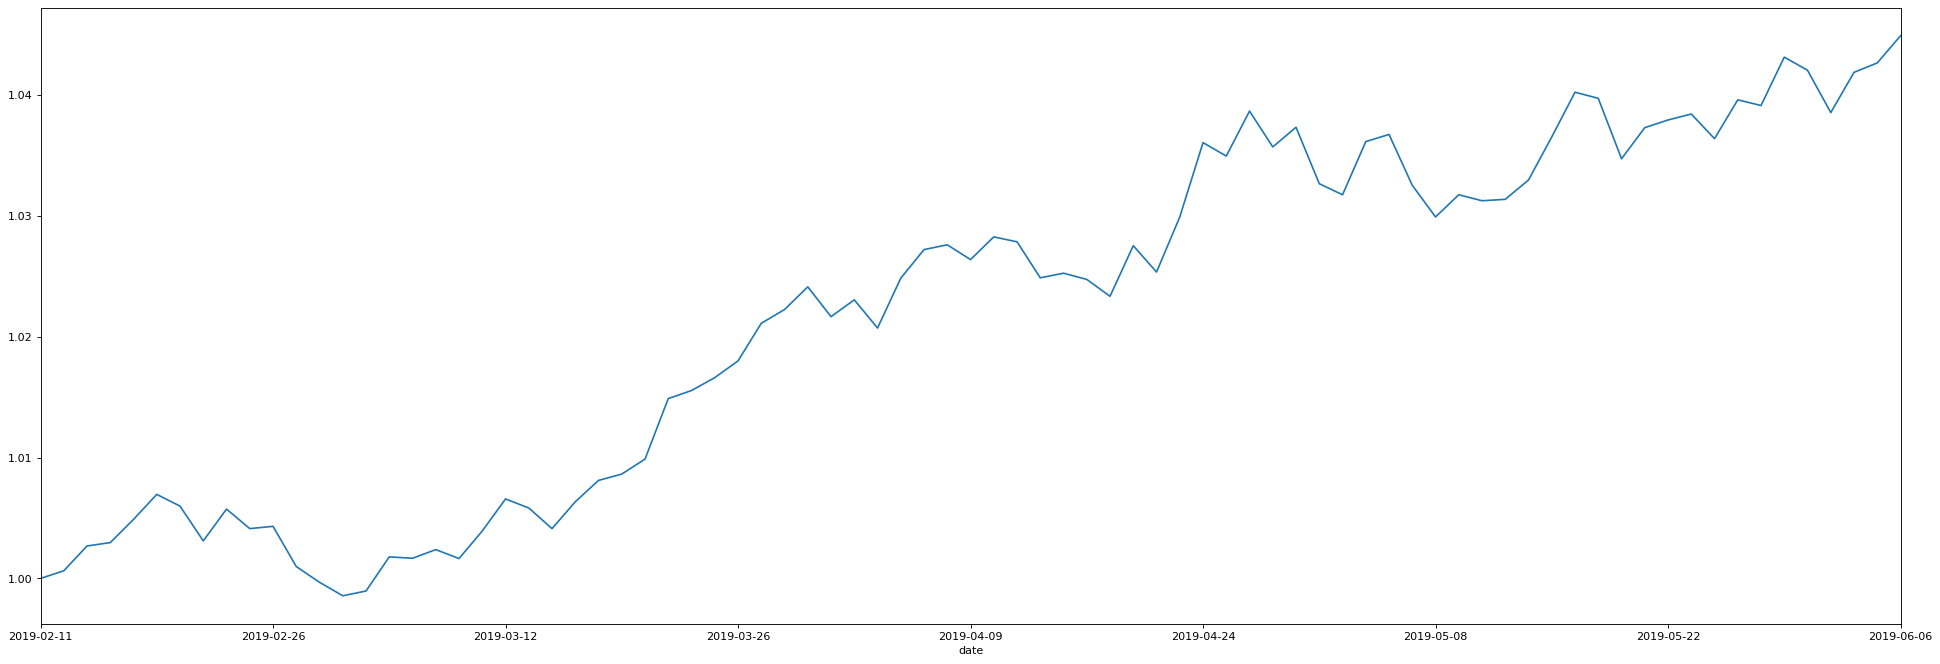
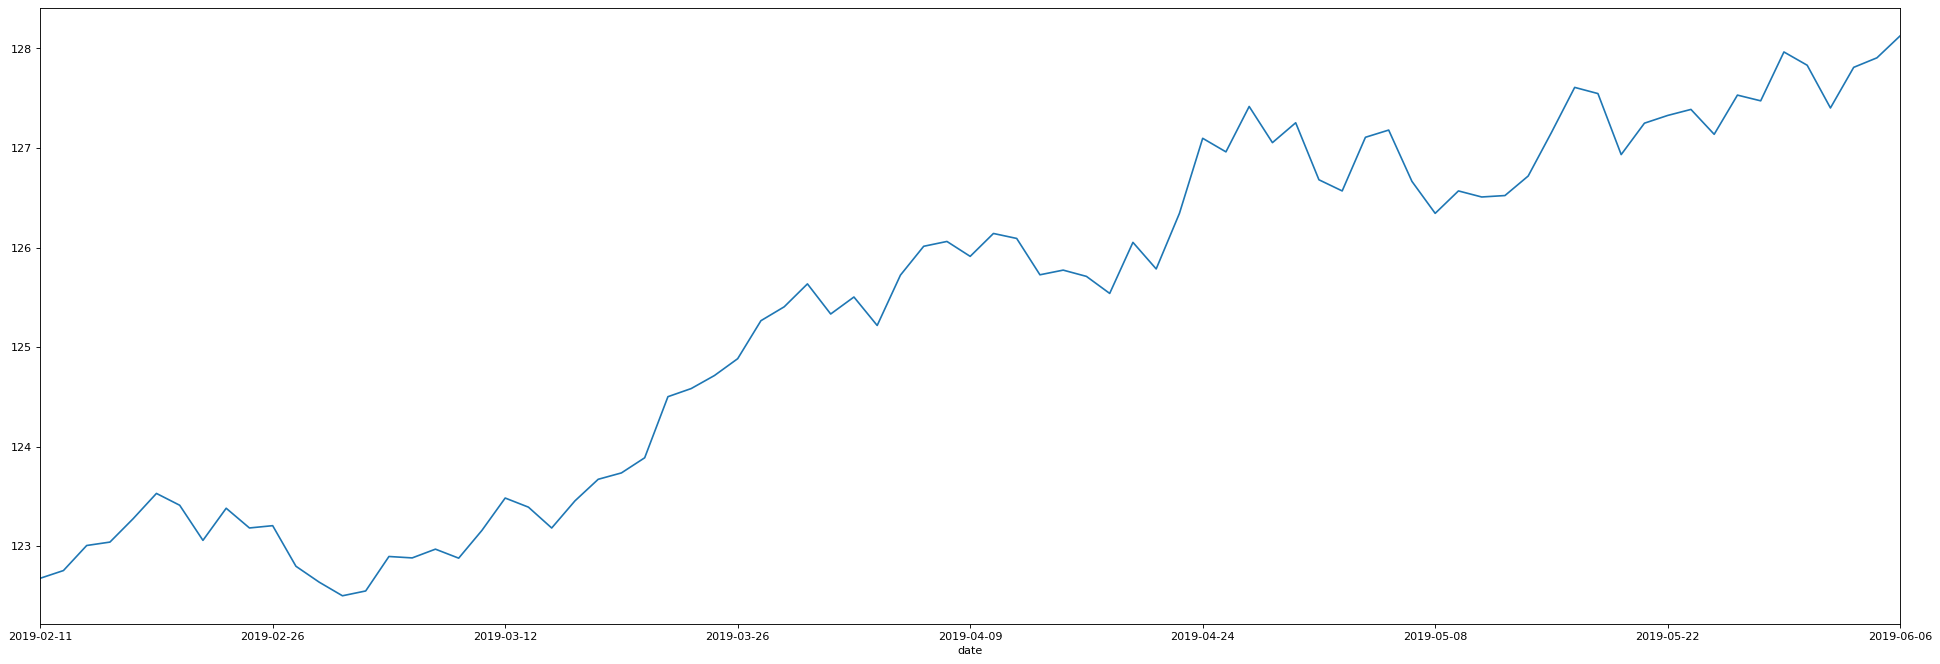
Support price scaling and disable api rate limit

diff --git a/main.py b/main.py
@@ -21,7 +21,7 @@ def read_portfolio(csv_filepath):
     return portfolio
 
 
-def get_price_data(api_key, portfolio):
+def get_price_data(api_key, disable_api_rate_limit, portfolio):
     ts = TimeSeries(key=api_key, output_format='pandas')
     data = []
     meta_data = []
@@ -33,7 +33,7 @@ def get_price_data(api_key, portfolio):
         data.append(tmp_data)
         meta_data.append(tmp_meta_data)
         # API rate limit
-        if i % 5 == 4:
+        if not disable_api_rate_limit and i % 5 == 4:
             time.sleep(60)
         i = i + 1
     return data, meta_data
@@ -61,11 +61,12 @@ def compute_price_with_currency_impact(price_data, cc_data):
 
 
 def compute_portfolio_price_with_currency_impact(api_key,
+                                                 disable_api_rate_limit,
                                                  csv_filepath,
                                                  from_currency,
                                                  to_currency):
     portfolio = read_portfolio(csv_filepath)
-    price_data, _ = get_price_data(api_key, portfolio)
+    price_data, _ = get_price_data(api_key, disable_api_rate_limit, portfolio)
     portfolio_price = compute_portfolio_price(price_data, portfolio)
     cc_data = get_currency_exchange_data(api_key, from_currency, to_currency)
     final_price = compute_price_with_currency_impact(portfolio_price, cc_data)
@@ -76,9 +77,12 @@ def get_close_price(price_data):
     return price_data['4. close']
 
 
-def plot_data(data, fig_filepath):
+def plot_data(data, do_data_scaling, fig_filepath):
     plt.figure(figsize=(30,10), dpi=80)
-    (data / data[0]).plot()
+    if do_data_scaling:
+        (data / data[0]).plot()
+    else:
+        data.plot()
     plt.savefig(fig_filepath, bbox_inches='tight')
 
 
@@ -89,17 +93,19 @@ def main():
     parser.add_argument("--from-currency", type=str, default="USD")
     parser.add_argument("--to-currency", type=str, default="SGD")
     parser.add_argument("--fig-filepath", type=str, default="fig.png")
+    parser.add_argument("--price-scaling", default=False, action='store_true')
+    parser.add_argument("--disable-api-rate-limit", default=False, action='store_true')
     args = parser.parse_args()
 
     final_price = compute_portfolio_price_with_currency_impact(
         args.api_key.strip(),
+        args.disable_api_rate_limit,
         args.csv_filepath.strip(),
         args.from_currency.strip(),
         args.to_currency.strip(),
     )
     final_close_price = get_close_price(final_price)
-    print(final_close_price)
-    plot_data(final_close_price, args.fig_filepath.strip())
+    plot_data(final_close_price, args.price_scaling, args.fig_filepath.strip())
 
 
 if __name__ == "__main__":
